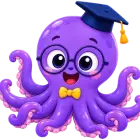
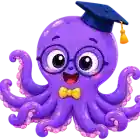
Cut initial JS bundle 60% to improve mobile performance score
- Made DashboardPage, ProgressPage, QuizPage lazy-loaded instead of eager
  (moves 344KB recharts/chart chunk out of the critical path)
- Prefetch those chunks on first user interaction / 8s timeout so
  navigation stays instant without blocking initial paint
- Recompress octo mascot webp (8.1KB -> 6.4KB)
- index bundle: 720KB -> 297KB raw (213KB -> 91KB gzip)

🤖 Generated with Codebuff

diff --git a/client/src/App.jsx b/client/src/App.jsx
@@ -11,12 +11,10 @@ import { PageTransition } from './components/ui/PageTransition'
 import { RequireAuth } from './components/auth/RequireAuth'
 import { EduvanceMascot } from './components/mascot/EduvanceMascot'
 import SessionTimeout from './components/ui/SessionTimeout'
-// Most-navigated pages — eagerly loaded for instant switching
-import { DashboardPage } from './pages/DashboardPage'
-import { ProgressPage } from './pages/ProgressPage'
-import { QuizPage } from './pages/QuizPage'
-
 // ── Lazily loaded (split into separate chunks) ──
+const DashboardPage = lazy(() => import('./pages/DashboardPage').then(m => ({ default: m.DashboardPage })))
+const ProgressPage = lazy(() => import('./pages/ProgressPage').then(m => ({ default: m.ProgressPage })))
+const QuizPage = lazy(() => import('./pages/QuizPage').then(m => ({ default: m.QuizPage })))
 const VerifyOTP = lazy(() => import('./pages/VerifyOTP'))
 const SetupPage = lazy(() => import('./pages/SetupPage').then(m => ({ default: m.SetupPage })))
 const PlannerPage = lazy(() => import('./pages/PlannerPage').then(m => ({ default: m.PlannerPage })))
@@ -74,6 +72,39 @@ export default function App() {
   const location = useLocation()
   // Warm backend on first load to prevent cold start delays
   useEffect(() => { warmBackend() }, [])
+
+  // Prefetch the most-navigated page chunks on FIRST USER INTERACTION.
+  // Keeps them out of the initial critical path (faster FCP/LCP) while
+  // still making navigation instant once the user engages with the page.
+  useEffect(() => {
+    let done = false
+    function prefetch() {
+      if (done) return
+      done = true
+      const idle = window.requestIdleCallback || ((cb) => setTimeout(cb, 1000))
+      idle(() => {
+        import('./pages/DashboardPage')
+        import('./pages/ProgressPage')
+        import('./pages/QuizPage')
+      })
+      remove()
+    }
+    function remove() {
+      window.removeEventListener('pointerdown', prefetch)
+      window.removeEventListener('keydown', prefetch)
+      window.removeEventListener('wheel', prefetch)
+      window.removeEventListener('touchstart', prefetch)
+      window.removeEventListener('scroll', prefetch)
+    }
+    window.addEventListener('pointerdown', prefetch, { passive: true })
+    window.addEventListener('keydown', prefetch)
+    window.addEventListener('wheel', prefetch, { passive: true })
+    window.addEventListener('touchstart', prefetch, { passive: true })
+    window.addEventListener('scroll', prefetch, { passive: true })
+    // Fallback so navigation is still warm even for passive users
+    const timer = setTimeout(prefetch, 8000)
+    return () => { remove(); clearTimeout(timer) }
+  }, [])
 
   return (
     <Suspense fallback={<PageLoader />}>
